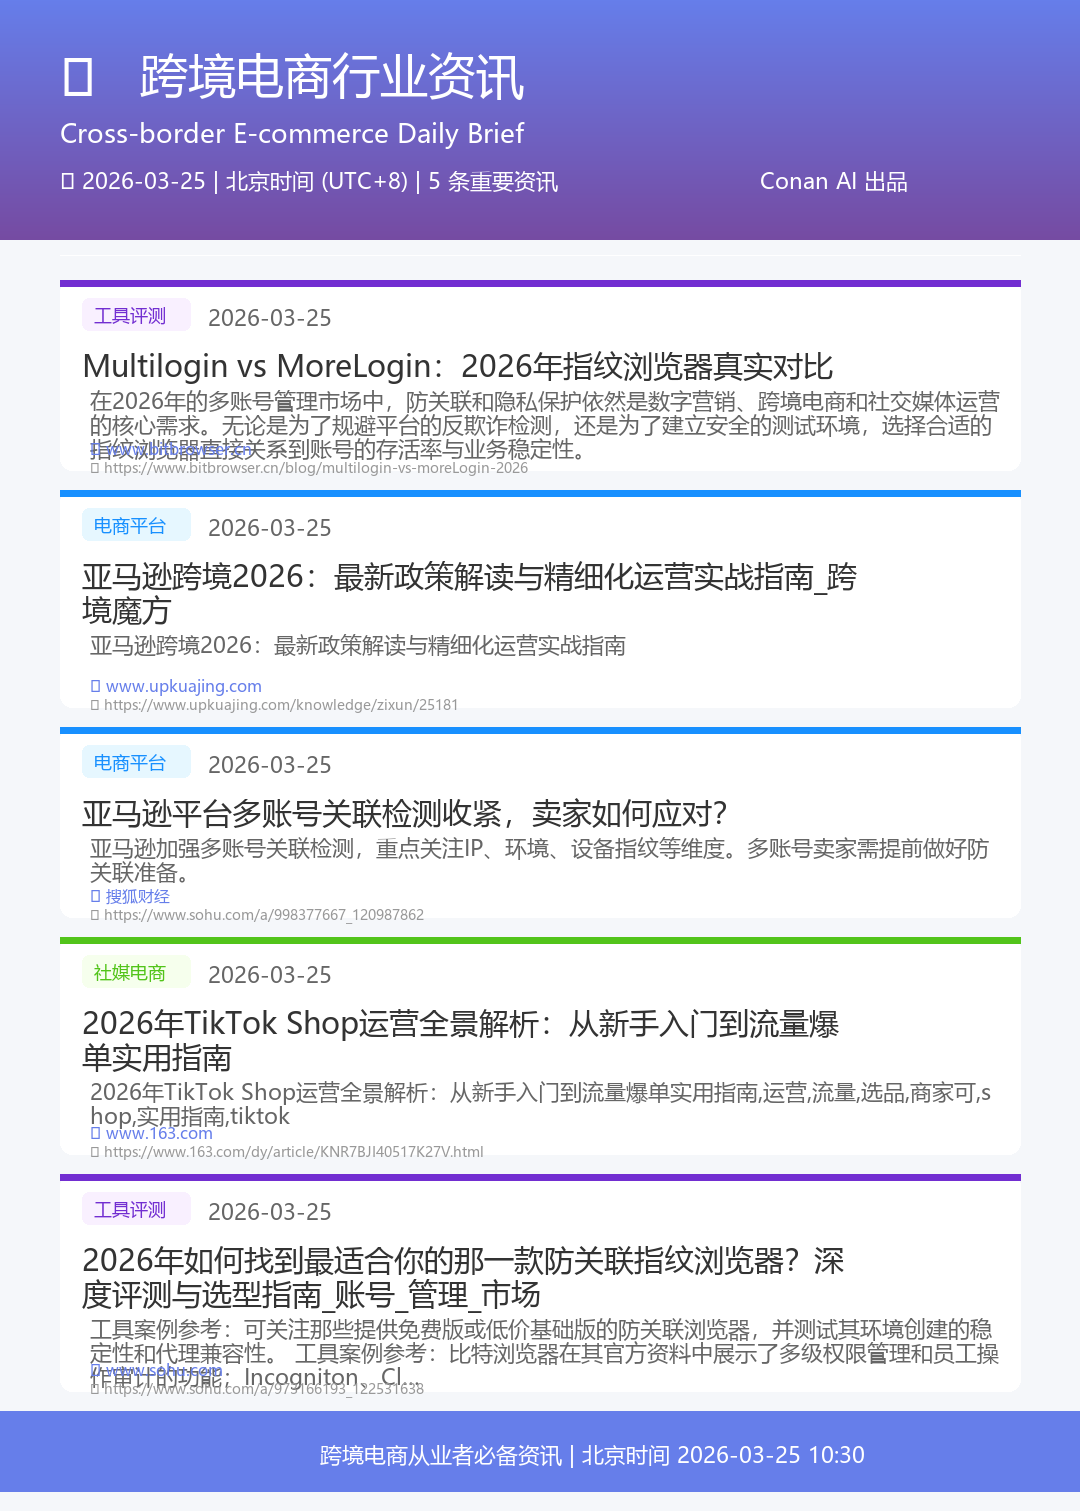
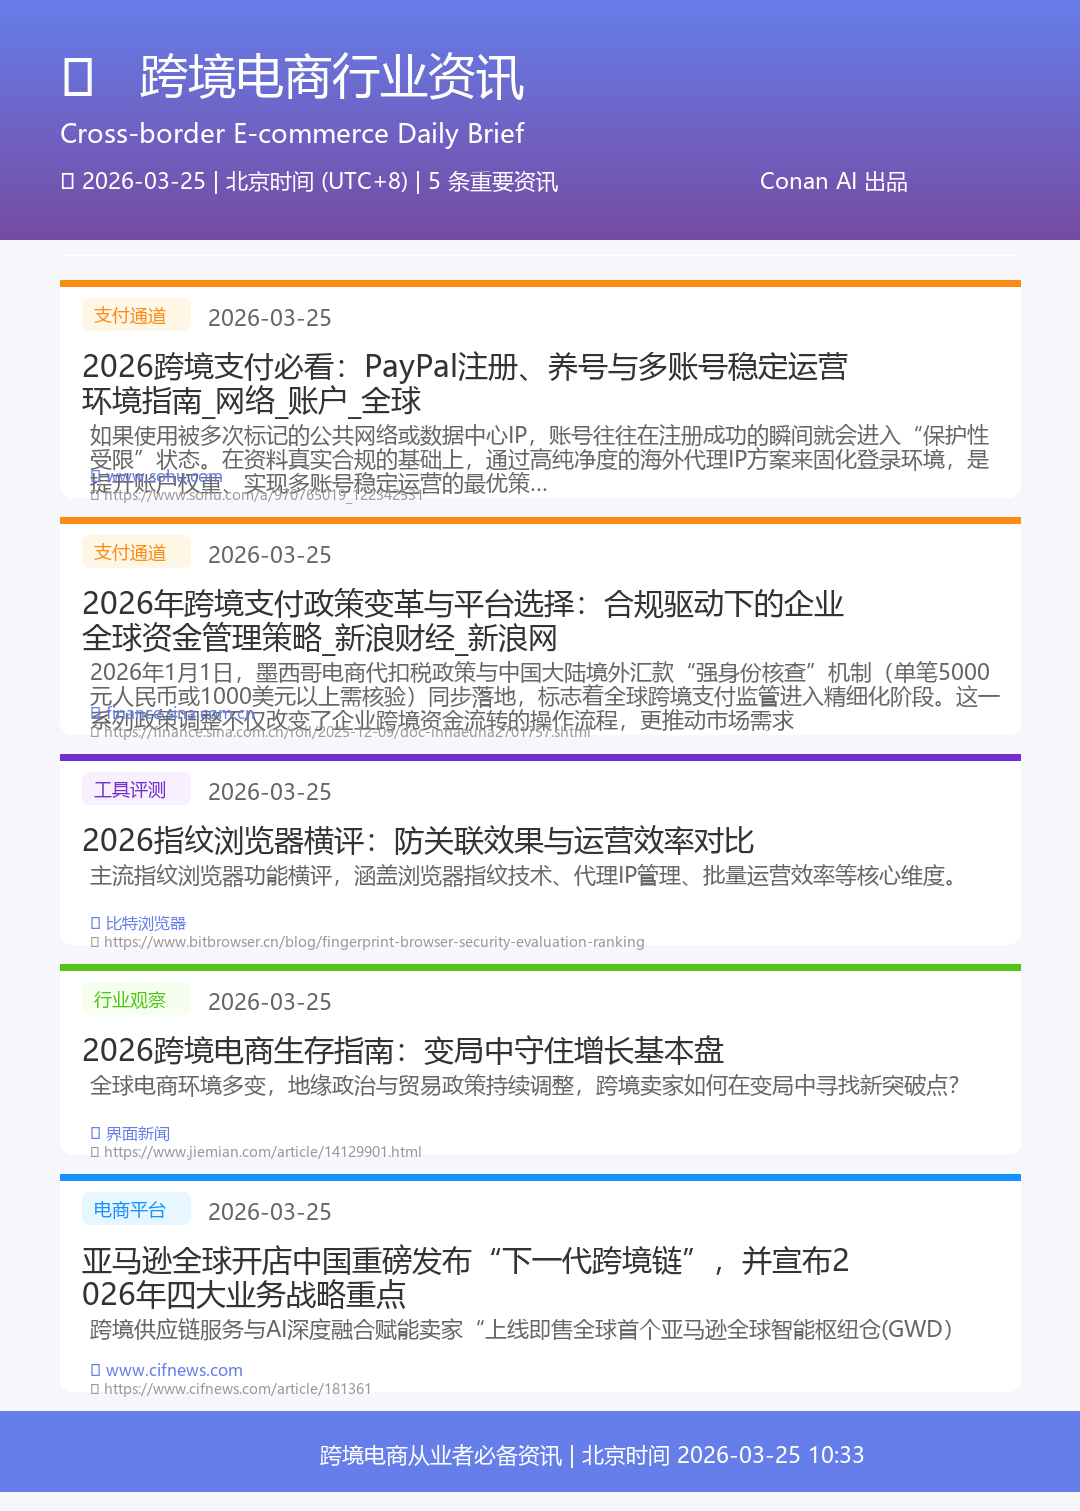
update: 行业简报 2026-03-25 10:33

Changed region(s): [[0.0611, 0.1866, 0.9472, 0.9332]]

diff --git a/资讯/index.html b/资讯/index.html
@@ -41,7 +41,7 @@
 <div class="header">
   <h1>📰 行业资讯</h1>
   <div>
-    <span class="last-check">🕒 北京时间 (UTC+8) | 2026-03-25 10:30</span>
+    <span class="last-check">🕒 北京时间 (UTC+8) | 2026-03-25 10:33</span>
     <a href="../index.html" style="margin-left:15px;">← 返回首页</a>
   </div>
 </div>
@@ -66,59 +66,31 @@
       <span class="badge">5 条重要资讯</span>
     </div>
 
-    <div class="news-item" data-category="工具评测">
+    <div class="news-item" data-category="支付通道">
       <div class="news-meta">
-        <span class="tag tag-purple">工具评测</span>
+        <span class="tag tag-orange">支付通道</span>
         2026-03-25
-        <span class="update-time">🕒 更新时间 2026-03-25 10:30</span><span style="color:#52c41a;font-size:11px;"> NEW</span>
+        <span class="update-time">🕒 更新时间 2026-03-25 10:33</span><span style="color:#52c41a;font-size:11px;"> NEW</span>
       </div>
       <div class="news-title">
-        <a href="https://www.bitbrowser.cn/blog/multilogin-vs-moreLogin-2026" target="_blank">Multilogin vs MoreLogin：2026年指纹浏览器真实对比</a>
+        <a href="https://www.sohu.com/a/970765019_122342531" target="_blank">2026跨境支付必看：PayPal注册、养号与多账号稳定运营环境指南_网络_账户_全球</a>
       </div>
-      <div class="news-summary">在2026年的多账号管理市场中，防关联和隐私保护依然是数字营销、跨境电商和社交媒体运营的核心需求。无论是为了规避平台的反欺诈检测，还是为了建立安全的测试环境，选择合适的指纹浏览器直接关系到账号的存活率与业务稳定性。</div>
-      <div class="news-source">📌 来源：<a href="https://www.bitbrowser.cn/blog/multilogin-vs-moreLogin-2026" target="_blank">www.bitbrowser.cn</a>
+      <div class="news-summary">如果使用被多次标记的公共网络或数据中心IP，账号往往在注册成功的瞬间就会进入“保护性受限”状态。在资料真实合规的基础上，通过高纯净度的海外代理IP方案来固化登录环境，是提升账户权重、实现多账号稳定运营的最优策…</div>
+      <div class="news-source">📌 来源：<a href="https://www.sohu.com/a/970765019_122342531" target="_blank">www.sohu.com</a>
         <span class="read-link">→ 阅读原文</span>
       </div>
     </div>
-    <div class="news-item" data-category="电商平台">
+    <div class="news-item" data-category="支付通道">
       <div class="news-meta">
-        <span class="tag tag-blue">电商平台</span>
+        <span class="tag tag-orange">支付通道</span>
         2026-03-25
-        <span class="update-time">🕒 更新时间 2026-03-25 10:30</span><span style="color:#52c41a;font-size:11px;"> NEW</span>
+        <span class="update-time">🕒 更新时间 2026-03-25 10:33</span><span style="color:#52c41a;font-size:11px;"> NEW</span>
       </div>
       <div class="news-title">
-        <a href="https://www.upkuajing.com/knowledge/zixun/25181" target="_blank">亚马逊跨境2026：最新政策解读与精细化运营实战指南_跨境魔方</a>
+        <a href="https://finance.sina.com.cn/roll/2025-12-09/doc-inhaeuna2701757.shtml" target="_blank">2026年跨境支付政策变革与平台选择：合规驱动下的企业全球资金管理策略_新浪财经_新浪网</a>
       </div>
-      <div class="news-summary">亚马逊跨境2026：最新政策解读与精细化运营实战指南</div>
-      <div class="news-source">📌 来源：<a href="https://www.upkuajing.com/knowledge/zixun/25181" target="_blank">www.upkuajing.com</a>
-        <span class="read-link">→ 阅读原文</span>
-      </div>
-    </div>
-    <div class="news-item" data-category="电商平台">
-      <div class="news-meta">
-        <span class="tag tag-blue">电商平台</span>
-        2026-03-25
-        <span class="update-time">🕒 更新时间 2026-03-25 10:30</span><span style="color:#52c41a;font-size:11px;"> NEW</span>
-      </div>
-      <div class="news-title">
-        <a href="https://www.sohu.com/a/998377667_120987862" target="_blank">亚马逊平台多账号关联检测收紧，卖家如何应对？</a>
-      </div>
-      <div class="news-summary">亚马逊加强多账号关联检测，重点关注IP、环境、设备指纹等维度。多账号卖家需提前做好防关联准备。</div>
-      <div class="news-source">📌 来源：<a href="https://www.sohu.com/a/998377667_120987862" target="_blank">搜狐财经</a>
-        <span class="read-link">→ 阅读原文</span>
-      </div>
-    </div>
-    <div class="news-item" data-category="社媒电商">
-      <div class="news-meta">
-        <span class="tag tag-green">社媒电商</span>
-        2026-03-25
-        <span class="update-time">🕒 更新时间 2026-03-25 10:30</span><span style="color:#52c41a;font-size:11px;"> NEW</span>
-      </div>
-      <div class="news-title">
-        <a href="https://www.163.com/dy/article/KNR7BJI40517K27V.html" target="_blank">2026年TikTok Shop运营全景解析：从新手入门到流量爆单实用指南</a>
-      </div>
-      <div class="news-summary">2026年TikTok Shop运营全景解析：从新手入门到流量爆单实用指南,运营,流量,选品,商家可,shop,实用指南,tiktok</div>
-      <div class="news-source">📌 来源：<a href="https://www.163.com/dy/article/KNR7BJI40517K27V.html" target="_blank">www.163.com</a>
+      <div class="news-summary">2026年1月1日，墨西哥电商代扣税政策与中国大陆境外汇款“强身份核查”机制（单笔5000元人民币或1000美元以上需核验）同步落地，标志着全球跨境支付监管进入精细化阶段。这一系列政策调整不仅改变了企业跨境资金流转的操作流程，更推动市场需求...</div>
+      <div class="news-source">📌 来源：<a href="https://finance.sina.com.cn/roll/2025-12-09/doc-inhaeuna2701757.shtml" target="_blank">finance.sina.com.cn</a>
         <span class="read-link">→ 阅读原文</span>
       </div>
     </div>
@@ -126,13 +98,41 @@
       <div class="news-meta">
         <span class="tag tag-purple">工具评测</span>
         2026-03-25
-        <span class="update-time">🕒 更新时间 2026-03-25 10:30</span><span style="color:#52c41a;font-size:11px;"> NEW</span>
+        <span class="update-time">🕒 更新时间 2026-03-25 10:33</span><span style="color:#52c41a;font-size:11px;"> NEW</span>
       </div>
       <div class="news-title">
-        <a href="https://www.sohu.com/a/973166193_122531638" target="_blank">2026年如何找到最适合你的那一款防关联指纹浏览器？深度评测与选型指南_账号_管理_市场</a>
+        <a href="https://www.bitbrowser.cn/blog/fingerprint-browser-security-evaluation-ranking" target="_blank">2026指纹浏览器横评：防关联效果与运营效率对比</a>
       </div>
-      <div class="news-summary">工具案例参考：可关注那些提供免费版或低价基础版的防关联浏览器，并测试其环境创建的稳定性和代理兼容性。 工具案例参考：比特浏览器在其官方资料中展示了多级权限管理和员工操作审计的功能；Incogniton、Cl…</div>
-      <div class="news-source">📌 来源：<a href="https://www.sohu.com/a/973166193_122531638" target="_blank">www.sohu.com</a>
+      <div class="news-summary">主流指纹浏览器功能横评，涵盖浏览器指纹技术、代理IP管理、批量运营效率等核心维度。</div>
+      <div class="news-source">📌 来源：<a href="https://www.bitbrowser.cn/blog/fingerprint-browser-security-evaluation-ranking" target="_blank">比特浏览器</a>
+        <span class="read-link">→ 阅读原文</span>
+      </div>
+    </div>
+    <div class="news-item" data-category="行业观察">
+      <div class="news-meta">
+        <span class="tag tag-green">行业观察</span>
+        2026-03-25
+        <span class="update-time">🕒 更新时间 2026-03-25 10:33</span><span style="color:#52c41a;font-size:11px;"> NEW</span>
+      </div>
+      <div class="news-title">
+        <a href="https://www.jiemian.com/article/14129901.html" target="_blank">2026跨境电商生存指南：变局中守住增长基本盘</a>
+      </div>
+      <div class="news-summary">全球电商环境多变，地缘政治与贸易政策持续调整，跨境卖家如何在变局中寻找新突破点？</div>
+      <div class="news-source">📌 来源：<a href="https://www.jiemian.com/article/14129901.html" target="_blank">界面新闻</a>
+        <span class="read-link">→ 阅读原文</span>
+      </div>
+    </div>
+    <div class="news-item" data-category="电商平台">
+      <div class="news-meta">
+        <span class="tag tag-blue">电商平台</span>
+        2026-03-25
+        <span class="update-time">🕒 更新时间 2026-03-25 10:33</span><span style="color:#52c41a;font-size:11px;"> NEW</span>
+      </div>
+      <div class="news-title">
+        <a href="https://www.cifnews.com/article/181361" target="_blank">亚马逊全球开店中国重磅发布“下一代跨境链”，并宣布2026年四大业务战略重点</a>
+      </div>
+      <div class="news-summary">跨境供应链服务与AI深度融合赋能卖家“上线即售全球首个亚马逊全球智能枢纽仓(GWD）</div>
+      <div class="news-source">📌 来源：<a href="https://www.cifnews.com/article/181361" target="_blank">www.cifnews.com</a>
         <span class="read-link">→ 阅读原文</span>
       </div>
     </div>

diff --git a/index.html b/index.html
@@ -76,7 +76,7 @@
 <div class="header">
   <h1>📊 Conan信息站</h1>
   <div>
-    <span class="tz">🕒 北京时间 (UTC+8) | 资讯2026-03-25 10:30 | 资讯2026-03-25 10:29 | 资讯更新于 2026-03-25 10:15</span>
+    <span class="tz">🕒 北京时间 (UTC+8) | 资讯2026-03-25 10:33 | 资讯2026-03-25 10:30 | 资讯2026-03-25 10:29 | 资讯更新于 2026-03-25 10:15</span>
     <a href="https://github.com/dwightmulkin-beep/conan-daily-report" target="_blank">GitHub</a>
   </div>
 </div>
@@ -132,30 +132,30 @@
   <div class="section">
 
     <div class="news-item">
-      <div class="meta"><span class="tag tag-purple">工具评测</span>2026-03-25 <span class="update-time">🕒 2026-03-25 10:30</span></div>
-      <div class="title"><a href="https://www.bitbrowser.cn/blog/multilogin-vs-moreLogin-2026" target="_blank">Multilogin vs MoreLogin：2026年指纹浏览器真实对比</a></div>
-      <div class="summary">在2026年的多账号管理市场中，防关联和隐私保护依然是数字营销、跨境电商和社交媒体运营的核心需求。无论是为了规避平台的反欺诈检测，还是为了建立安全的测试环境，选择合适的指纹浏览器直接关系到账号的存活率与业务稳定性。</div>
-      <div class="source">📌 <a href="https://www.bitbrowser.cn/blog/multilogin-vs-moreLogin-2026" target="_blank">www.bitbrowser.cn</a></div>
+      <div class="meta"><span class="tag tag-orange">支付通道</span>2026-03-25 <span class="update-time">🕒 2026-03-25 10:33</span></div>
+      <div class="title"><a href="https://www.sohu.com/a/970765019_122342531" target="_blank">2026跨境支付必看：PayPal注册、养号与多账号稳定运营环境指南_网络_账户_全球</a></div>
+      <div class="summary">如果使用被多次标记的公共网络或数据中心IP，账号往往在注册成功的瞬间就会进入“保护性受限”状态。在资料真实合规的基础上，通过高纯净度的海外代理IP方案来固化登录环境，是提升账户权重、实现多账号稳定运营的最优策…</div>
+      <div class="source">📌 <a href="https://www.sohu.com/a/970765019_122342531" target="_blank">www.sohu.com</a></div>
     </div><div class="news-item">
-      <div class="meta"><span class="tag tag-blue">电商平台</span>2026-03-25 <span class="update-time">🕒 2026-03-25 10:30</span></div>
-      <div class="title"><a href="https://www.upkuajing.com/knowledge/zixun/25181" target="_blank">亚马逊跨境2026：最新政策解读与精细化运营实战指南_跨境魔方</a></div>
-      <div class="summary">亚马逊跨境2026：最新政策解读与精细化运营实战指南</div>
-      <div class="source">📌 <a href="https://www.upkuajing.com/knowledge/zixun/25181" target="_blank">www.upkuajing.com</a></div>
+      <div class="meta"><span class="tag tag-orange">支付通道</span>2026-03-25 <span class="update-time">🕒 2026-03-25 10:33</span></div>
+      <div class="title"><a href="https://finance.sina.com.cn/roll/2025-12-09/doc-inhaeuna2701757.shtml" target="_blank">2026年跨境支付政策变革与平台选择：合规驱动下的企业全球资金管理策略_新浪财经_新浪网</a></div>
+      <div class="summary">2026年1月1日，墨西哥电商代扣税政策与中国大陆境外汇款“强身份核查”机制（单笔5000元人民币或1000美元以上需核验）同步落地，标志着全球跨境支付监管进入精细化阶段。这一系列政策调整不仅改变了企业跨境资金流转的操作流程，更推动市场需求...</div>
+      <div class="source">📌 <a href="https://finance.sina.com.cn/roll/2025-12-09/doc-inhaeuna2701757.shtml" target="_blank">finance.sina.com.cn</a></div>
     </div><div class="news-item">
-      <div class="meta"><span class="tag tag-blue">电商平台</span>2026-03-25 <span class="update-time">🕒 2026-03-25 10:30</span></div>
-      <div class="title"><a href="https://www.sohu.com/a/998377667_120987862" target="_blank">亚马逊平台多账号关联检测收紧，卖家如何应对？</a></div>
-      <div class="summary">亚马逊加强多账号关联检测，重点关注IP、环境、设备指纹等维度。多账号卖家需提前做好防关联准备。</div>
-      <div class="source">📌 <a href="https://www.sohu.com/a/998377667_120987862" target="_blank">搜狐财经</a></div>
+      <div class="meta"><span class="tag tag-purple">工具评测</span>2026-03-25 <span class="update-time">🕒 2026-03-25 10:33</span></div>
+      <div class="title"><a href="https://www.bitbrowser.cn/blog/fingerprint-browser-security-evaluation-ranking" target="_blank">2026指纹浏览器横评：防关联效果与运营效率对比</a></div>
+      <div class="summary">主流指纹浏览器功能横评，涵盖浏览器指纹技术、代理IP管理、批量运营效率等核心维度。</div>
+      <div class="source">📌 <a href="https://www.bitbrowser.cn/blog/fingerprint-browser-security-evaluation-ranking" target="_blank">比特浏览器</a></div>
     </div><div class="news-item">
-      <div class="meta"><span class="tag tag-green">社媒电商</span>2026-03-25 <span class="update-time">🕒 2026-03-25 10:30</span></div>
-      <div class="title"><a href="https://www.163.com/dy/article/KNR7BJI40517K27V.html" target="_blank">2026年TikTok Shop运营全景解析：从新手入门到流量爆单实用指南</a></div>
-      <div class="summary">2026年TikTok Shop运营全景解析：从新手入门到流量爆单实用指南,运营,流量,选品,商家可,shop,实用指南,tiktok</div>
-      <div class="source">📌 <a href="https://www.163.com/dy/article/KNR7BJI40517K27V.html" target="_blank">www.163.com</a></div>
+      <div class="meta"><span class="tag tag-green">行业观察</span>2026-03-25 <span class="update-time">🕒 2026-03-25 10:33</span></div>
+      <div class="title"><a href="https://www.jiemian.com/article/14129901.html" target="_blank">2026跨境电商生存指南：变局中守住增长基本盘</a></div>
+      <div class="summary">全球电商环境多变，地缘政治与贸易政策持续调整，跨境卖家如何在变局中寻找新突破点？</div>
+      <div class="source">📌 <a href="https://www.jiemian.com/article/14129901.html" target="_blank">界面新闻</a></div>
     </div><div class="news-item">
-      <div class="meta"><span class="tag tag-purple">工具评测</span>2026-03-25 <span class="update-time">🕒 2026-03-25 10:30</span></div>
-      <div class="title"><a href="https://www.sohu.com/a/973166193_122531638" target="_blank">2026年如何找到最适合你的那一款防关联指纹浏览器？深度评测与选型指南_账号_管理_市场</a></div>
-      <div class="summary">工具案例参考：可关注那些提供免费版或低价基础版的防关联浏览器，并测试其环境创建的稳定性和代理兼容性。 工具案例参考：比特浏览器在其官方资料中展示了多级权限管理和员工操作审计的功能；Incogniton、Cl…</div>
-      <div class="source">📌 <a href="https://www.sohu.com/a/973166193_122531638" target="_blank">www.sohu.com</a></div>
+      <div class="meta"><span class="tag tag-blue">电商平台</span>2026-03-25 <span class="update-time">🕒 2026-03-25 10:33</span></div>
+      <div class="title"><a href="https://www.cifnews.com/article/181361" target="_blank">亚马逊全球开店中国重磅发布“下一代跨境链”，并宣布2026年四大业务战略重点</a></div>
+      <div class="summary">跨境供应链服务与AI深度融合赋能卖家“上线即售全球首个亚马逊全球智能枢纽仓(GWD）</div>
+      <div class="source">📌 <a href="https://www.cifnews.com/article/181361" target="_blank">www.cifnews.com</a></div>
     </div>
 
     </div>
